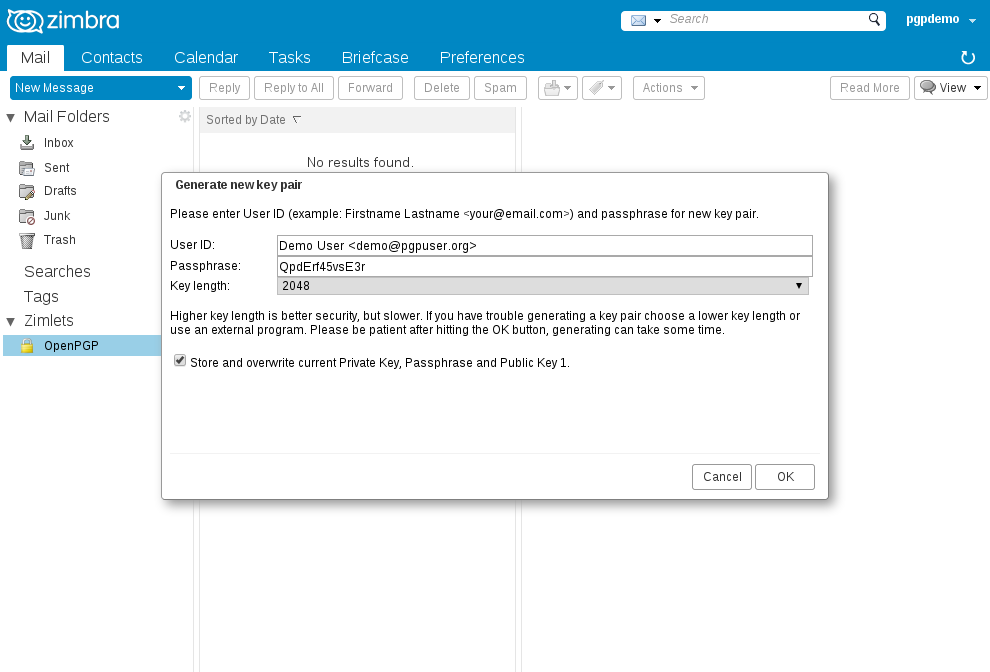
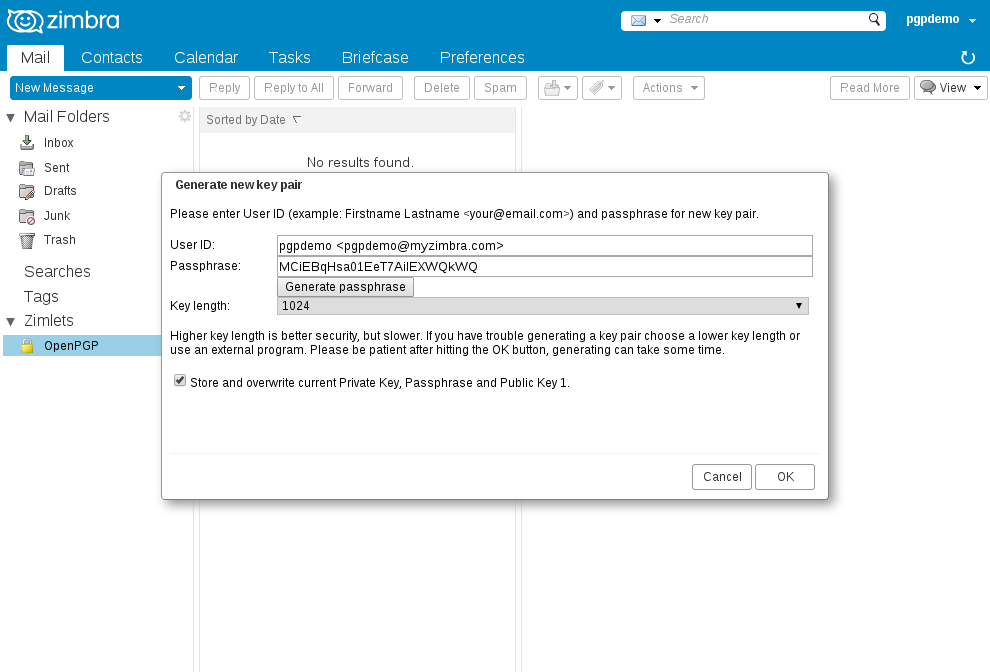
Modified readme for 1.2.7, modified help for 1.2.7.

Changed region(s): [[0.1515, 0.3438, 0.8182, 0.5938]]

diff --git a/tk_barrydegraaff_zimbra_openpgp/help/index.html b/tk_barrydegraaff_zimbra_openpgp/help/index.html
@@ -71,7 +71,7 @@ New users should see that there are no keys stored in the "Manage keys" window. 
 <h2>Generating a new key pair</h2>
 Right click on OpenPGP and then click "Generate key pair".
 <br><br><img src="generate-keypair-menu.png" alt=""><br><hr><br>
-In the "Generate new key pair" window fill out all the fields. The table below may help you with the task:<br><br>
+In the "Generate new key pair" window check if all the fields are correctly filled by the server. Correct when necessary. See the table below:<br><br>
 <table>
 <tr><td>User ID</td><td>example: Firstname Lastname &lt;myemail@example.com&gt;<br>Please follow this example, so people can automatically find your email address when using your public key.</td></tr>
 <tr><td>Passphrase</td><td>

diff --git a/README.md b/README.md
@@ -30,7 +30,7 @@ Bugs and feedback: https://github.com/barrydegraaff/pgp-zimlet/issues
     su zimbra
     cd /tmp
     rm tk_barrydegraaff_zimbra_openpgp*
-    wget https://github.com/barrydegraaff/pgp-zimlet-binaries/raw/master/1.2.6/tk_barrydegraaff_zimbra_openpgp.zip
+    wget https://github.com/barrydegraaff/pgp-zimlet-binaries/raw/master/1.2.7/tk_barrydegraaff_zimbra_openpgp.zip
     zmzimletctl deploy tk_barrydegraaff_zimbra_openpgp.zip
 
 Please be warned, if you undeploy this Zimlet after some time Zimbra will truncate your users preferences (public keys) of this Zimlet.
